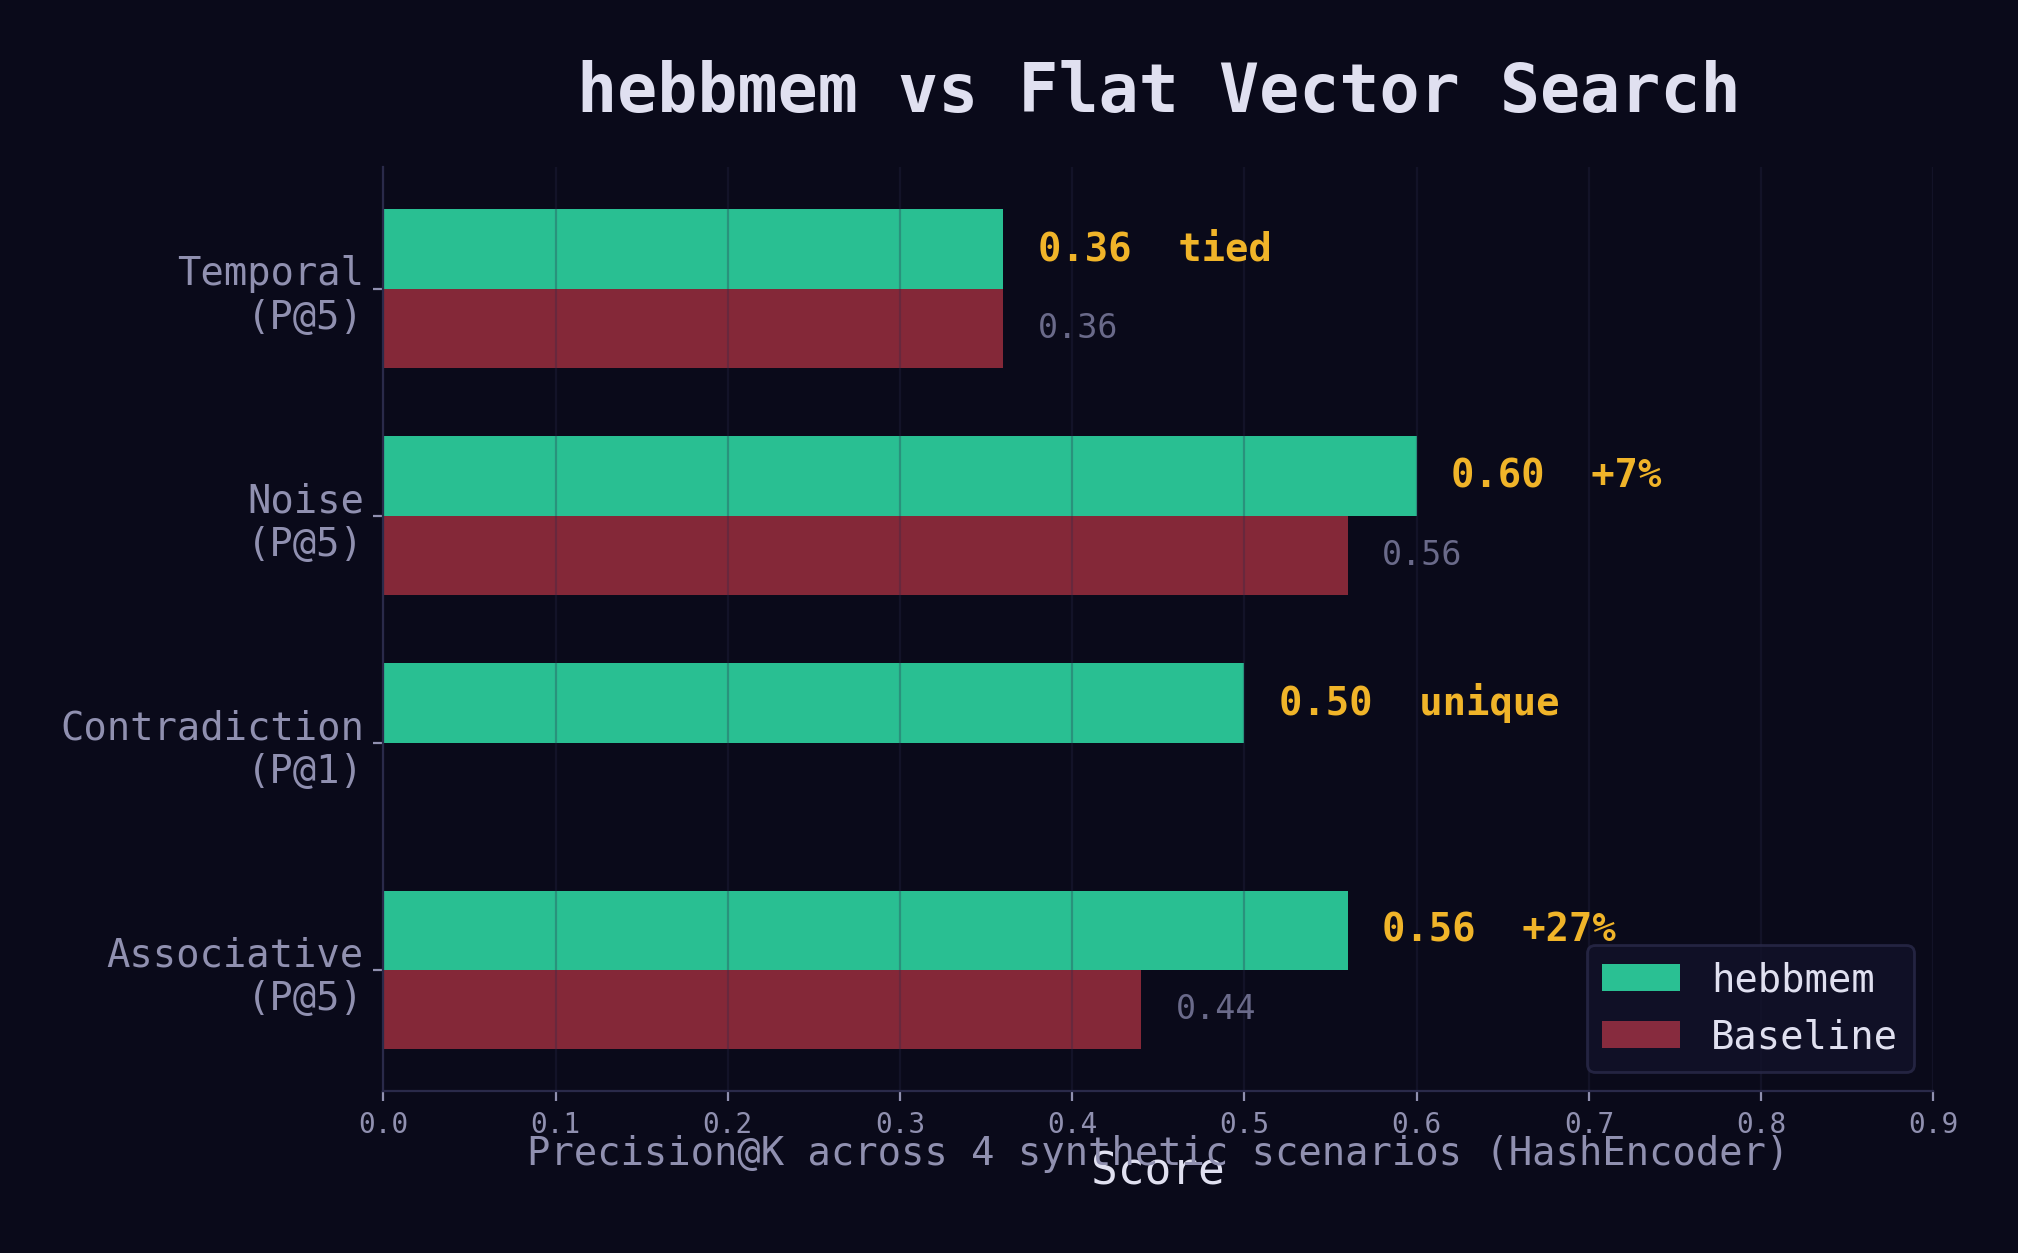
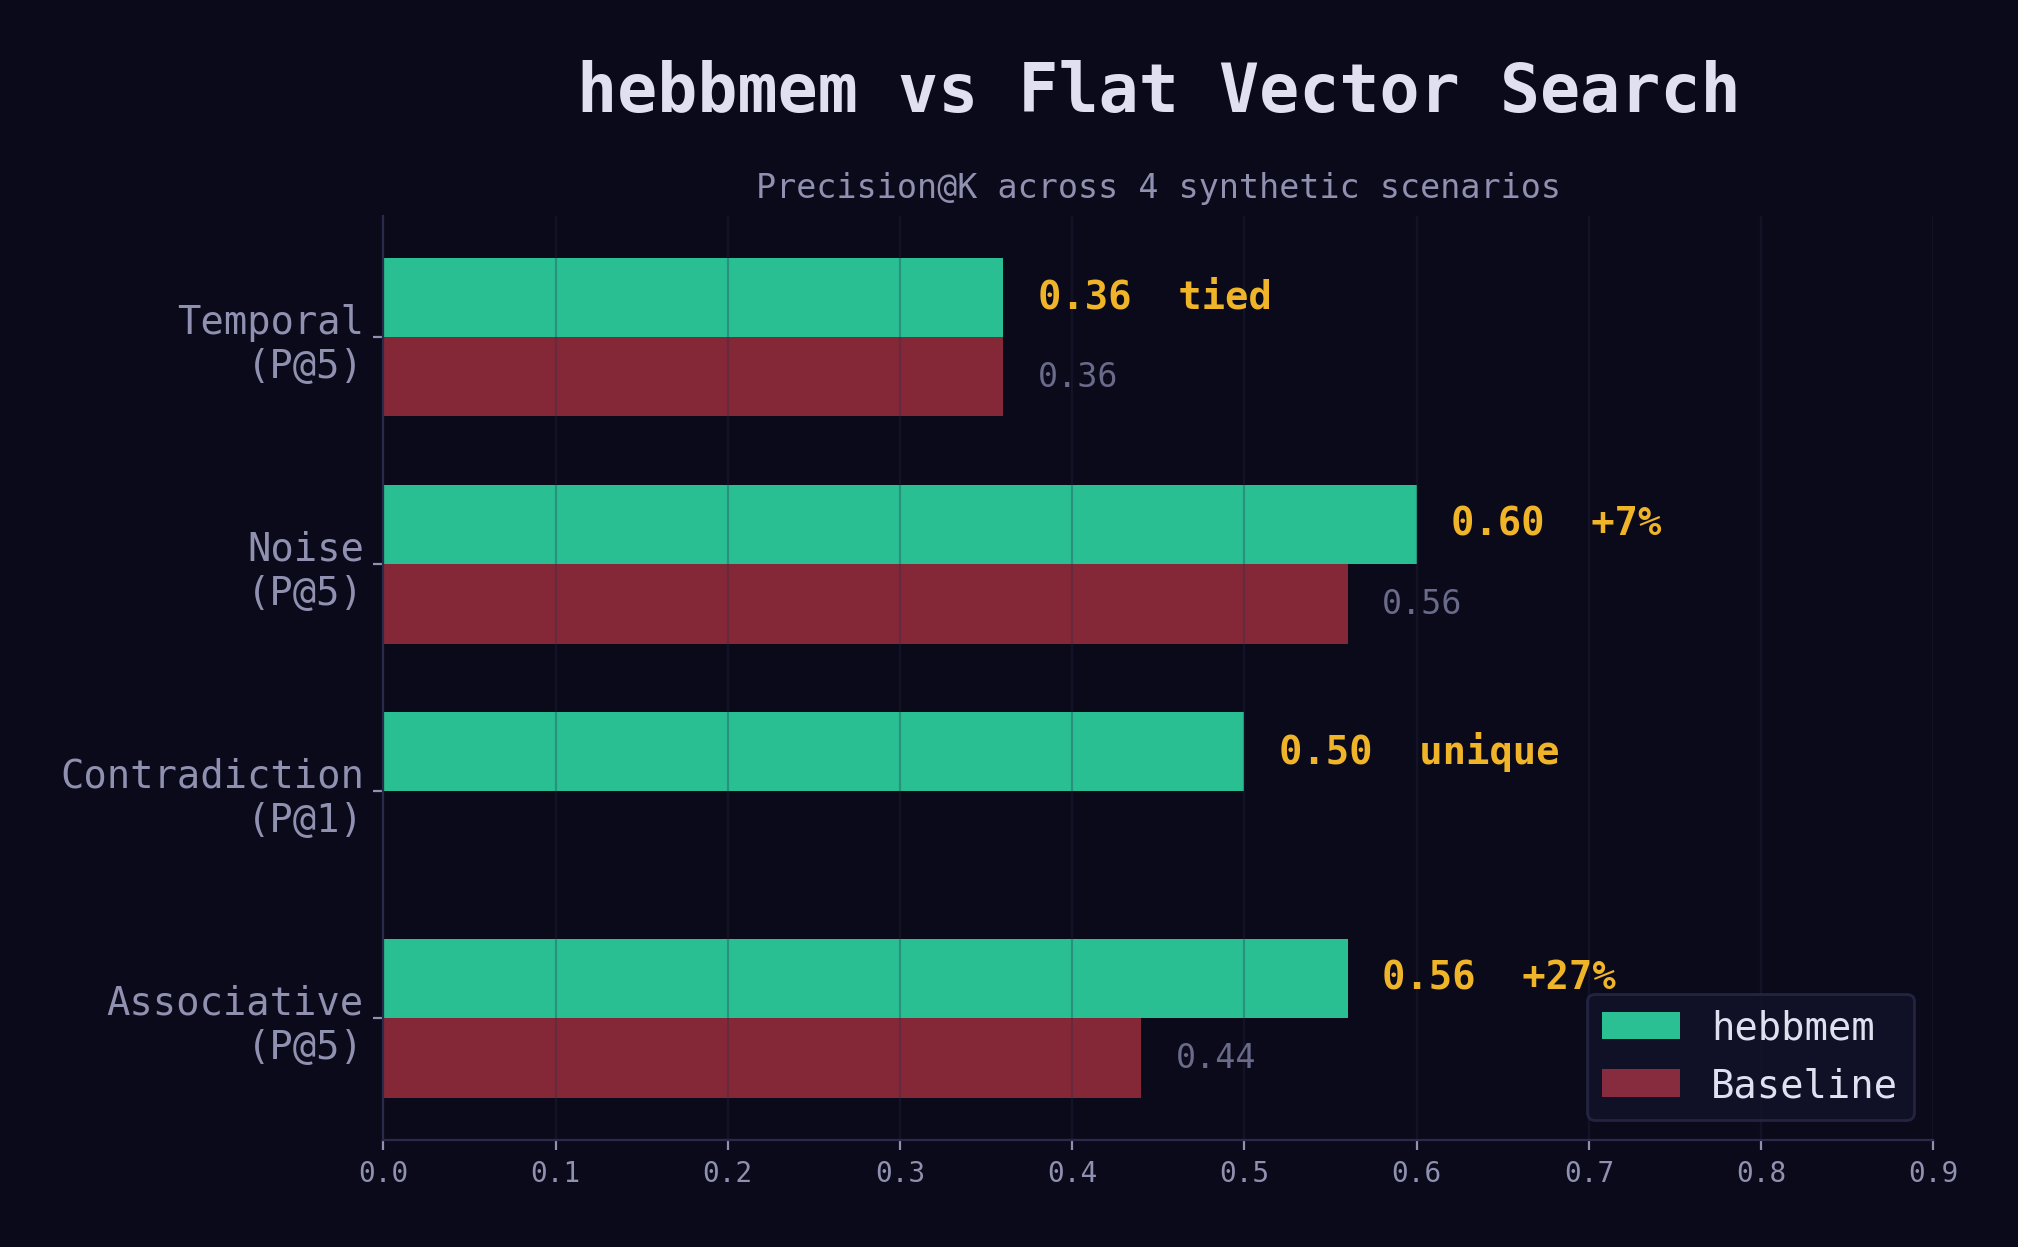
Fix benchmark_results.png bottom text overlap
Moved subtitle to above chart area, removed redundant x-axis label.

diff --git a/scripts/generate_assets.py b/scripts/generate_assets.py
@@ -484,19 +484,19 @@ def gen_benchmark_results() -> None:
         [f"{s}\n({m})" for s, m in zip(scenarios, met, strict=True)],
         fontsize=14,
     )
-    ax.set_xlabel("Score", fontsize=16)
+    ax.set_xlabel("")
     ax.set_xlim(0, 0.90)
     ax.set_title(
-        "hebbmem vs Flat Vector Search",
+        "hebbmem vs Flat Vector Search\n",
         fontsize=24,
         fontweight="bold",
-        pad=20,
+        pad=10,
     )
     ax.text(
         0.5,
-        -0.08,
-        "Precision@K across 4 synthetic scenarios (HashEncoder)",
-        fontsize=14,
+        1.02,
+        "Precision@K across 4 synthetic scenarios",
+        fontsize=12,
         color=C["text2"],
         ha="center",
         transform=ax.transAxes,
